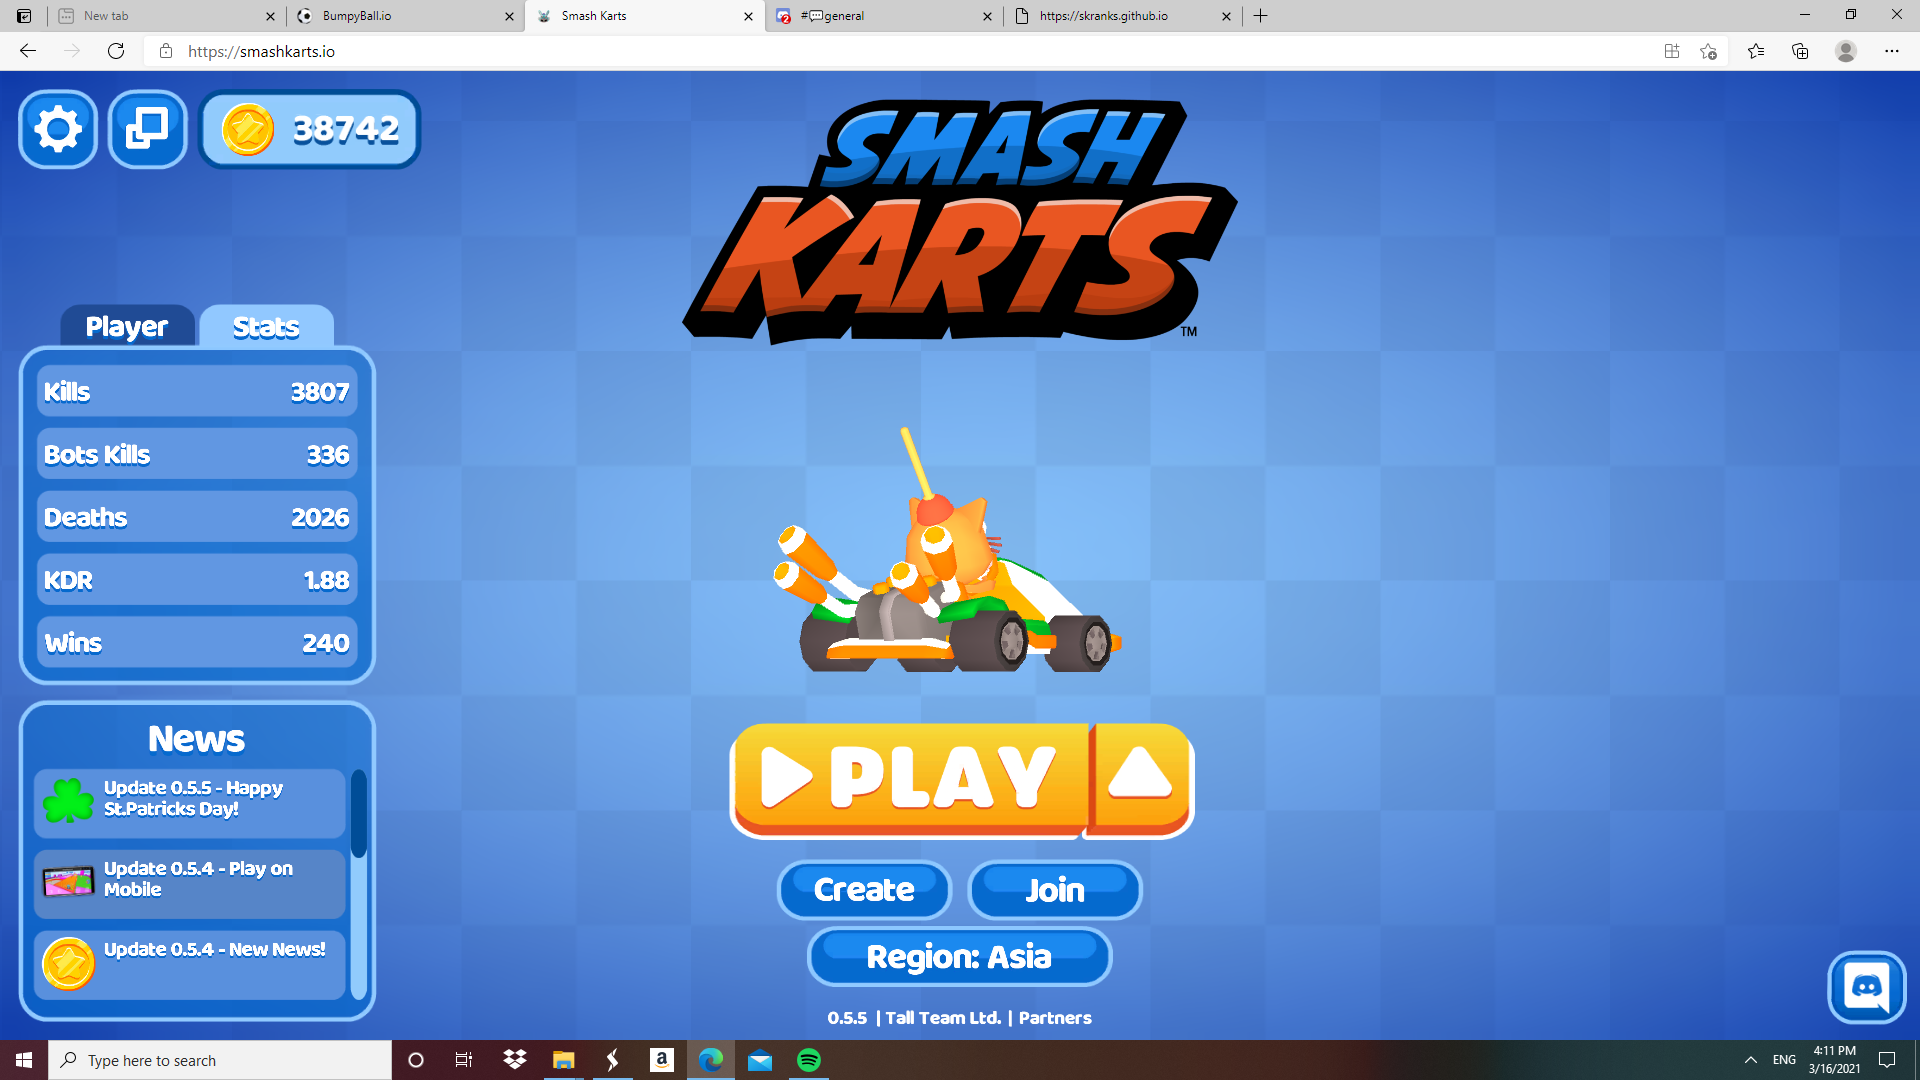
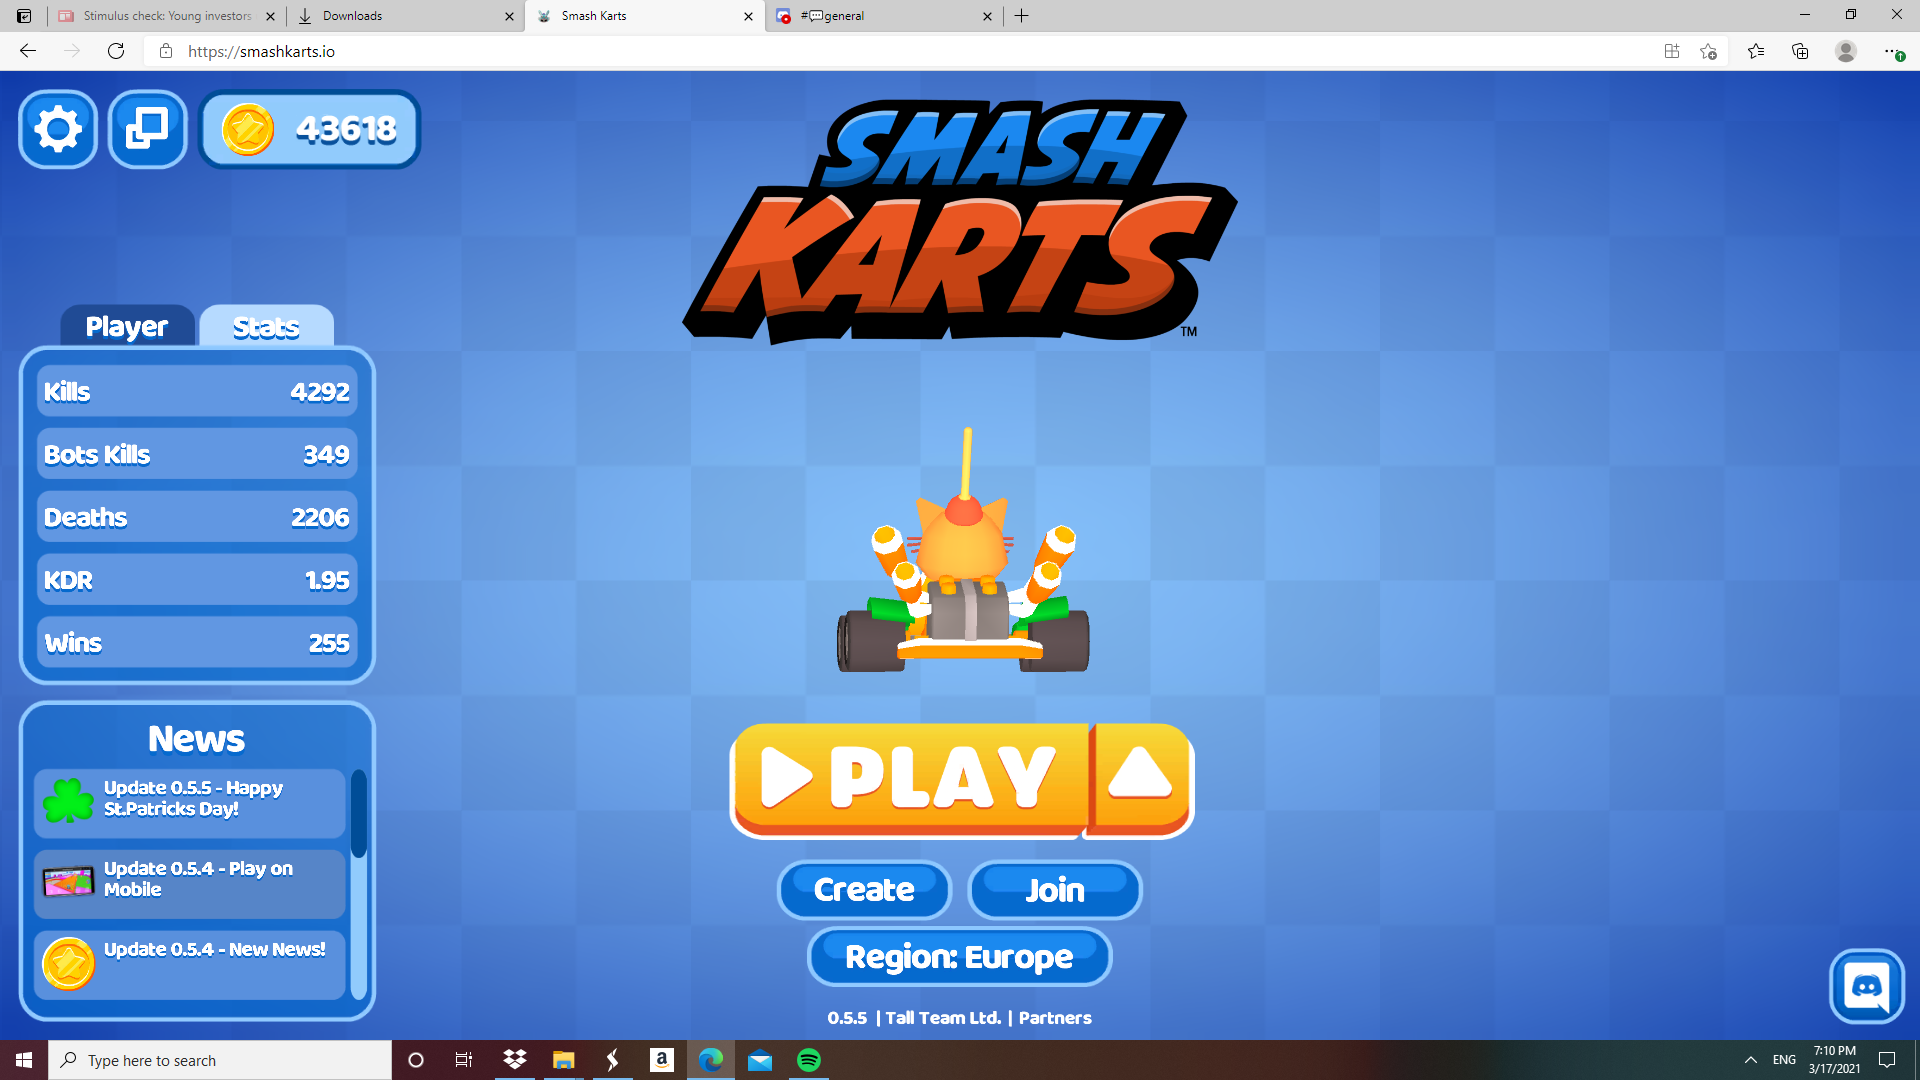
Updated Forward

diff --git a/index.html b/index.html
@@ -120,11 +120,11 @@
             <div class="number color2">12.</div>
             <div class="box color2"><a href="Images/Screenshots/Forward.png" class="lightbox_trigger"><i class="fas fa-camera"></i></a></div>
             <div class="name color2">Forward</div>
-            <div class="box color2">1.88</div>
-            <div class="box color2">3,807</div>
-            <div class="box color2">336</div>
-            <div class="box color2">2,026</div>
-            <div class="box color2">240</div>
+            <div class="box color2">1.95</div>
+            <div class="box color2">4,292</div>
+            <div class="box color2">349</div>
+            <div class="box color2">2,206</div>
+            <div class="box color2">255</div>
 
             <div class="number color1">13.</div>
             <div class="box color1"><a href="Images/Screenshots/Player3480.png" class="lightbox_trigger"><i class="fas fa-camera"></i></a></div>
@@ -280,7 +280,7 @@
             <div class="box color1">94</div>
         </div>
 
-        <div id="update">Last updated: 3/16/2021</div>
+        <div id="update">Last updated: 3/18/2021</div>
 
         <p>To be included in the leaderboard, or to update your stats, please DM haedcase 
             <a href="http://discordapp.com/users/696072046374813776"><i class="fab fa-discord" id="discordLink"></i></a> 
